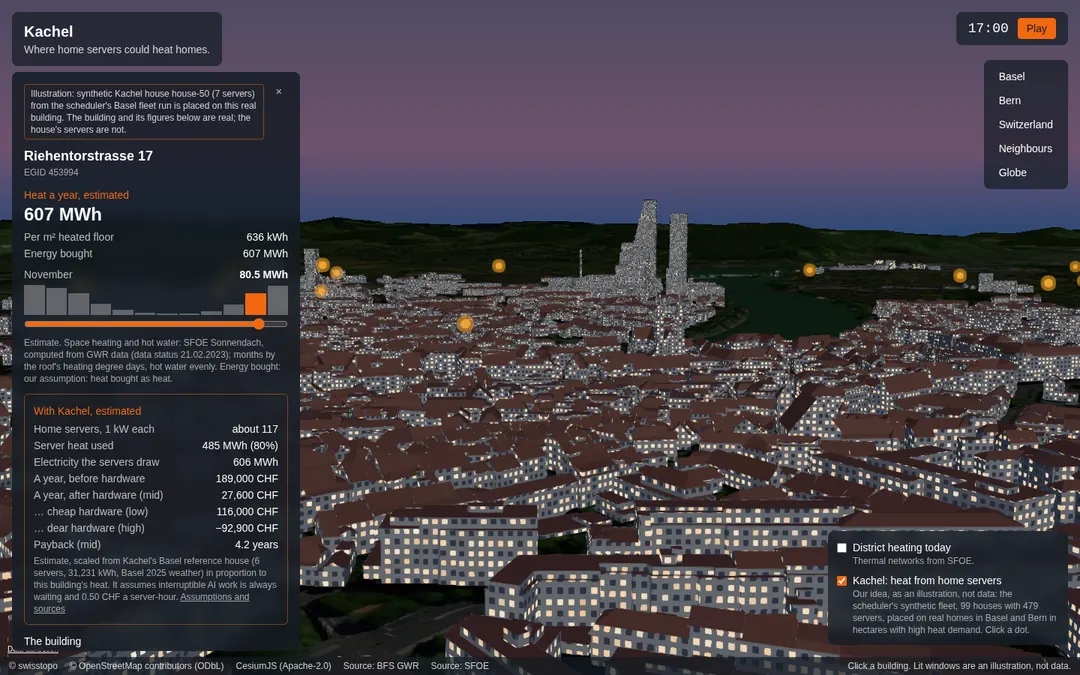
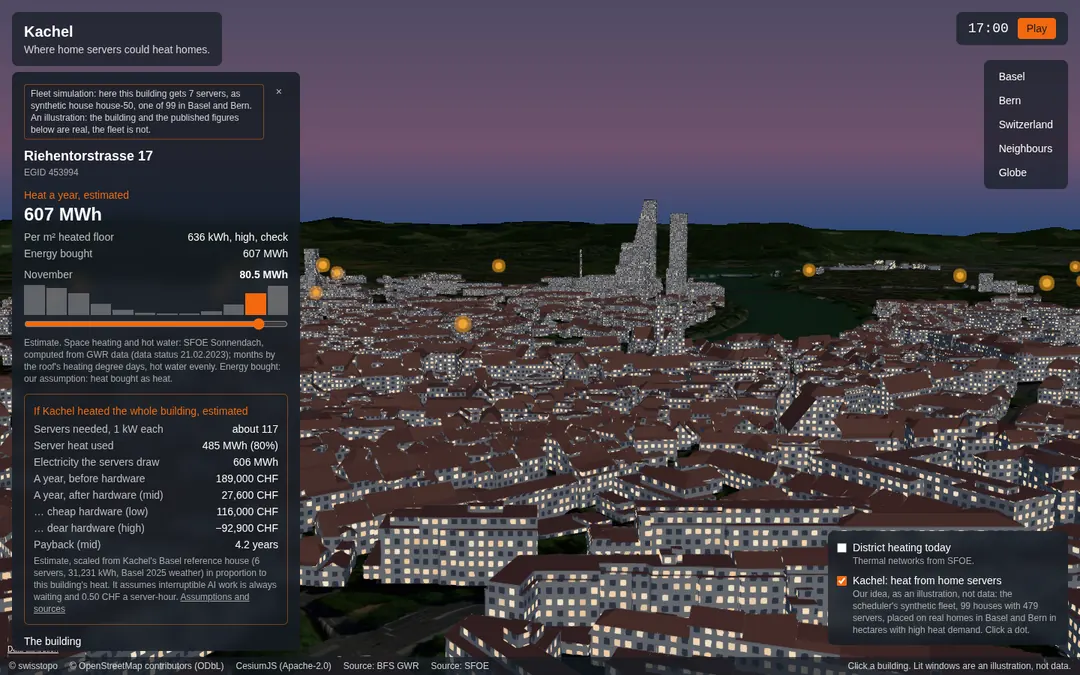
Tell the fleet's servers apart from the whole-building estimate

diff --git a/apps/map/src/building/BuildingCard.tsx b/apps/map/src/building/BuildingCard.tsx
@@ -1,11 +1,16 @@
 import { formatEnergy, heatEstimate } from "./estimate";
-import type { FleetHouse } from "../fleet/fleet";
+import { FLEET, type FleetHouse } from "../fleet/fleet";
 import type { BuildingFacts } from "./geoadmin";
 import { ASSUMPTIONS_URL, formatChf, kachelEstimate } from "./kachel";
 import { MonthSlider } from "./MonthSlider";
 import { describeSolar, SOLAR_RADIUS_M } from "./solar";
 
 const NETWORK_THRESHOLD_MWH = 700;
+/**
+ * Above this, heat per m² of heated floor is unusual even for an old, unrenovated building
+ * (our rule of thumb), so the card flags the SFOE estimate for a second look.
+ */
+export const HIGH_KWH_PER_M2 = 300;
 
 function Row({ label, value }: { label: string; value: string }) {
   return (
@@ -49,7 +54,7 @@ export function BuildingCard({
       </button>
       {fleet !== null && (
         <p className="mr-8 mb-2 rounded border border-heat/50 px-2 py-1 text-xs text-paper/80">
-          {`Illustration: synthetic Kachel house ${fleet.id} (${fleet.servers} servers) from the scheduler's ${fleet.city} fleet run is placed on this real building. The building and its figures below are real; the house's servers are not.`}
+          {`Fleet simulation: here this building gets ${fleet.servers} servers, as synthetic house ${fleet.id}, one of ${FLEET.length} in Basel and Bern. An illustration: the building and the published figures below are real, the fleet is not.`}
         </p>
       )}
       {facts === "loading" ? (
@@ -88,7 +93,11 @@ function Facts({ facts, month }: { facts: BuildingFacts; month: number }) {
             {estimate.perSquareMetre !== null && (
               <Row
                 label="Per m² heated floor"
-                value={`${Math.round(estimate.perSquareMetre)} kWh`}
+                value={
+                  estimate.perSquareMetre > HIGH_KWH_PER_M2
+                    ? `${Math.round(estimate.perSquareMetre)} kWh, high, check`
+                    : `${Math.round(estimate.perSquareMetre)} kWh`
+                }
               />
             )}
             <Row
@@ -180,12 +189,12 @@ function WithKachel({ heatKwh }: { heatKwh: number }) {
   const k = kachelEstimate(heatKwh);
   return (
     <section className="mt-3 rounded-md border border-heat/50 p-3">
-      <h3 className="font-medium text-heat">With Kachel, estimated</h3>
+      <h3 className="font-medium text-heat">If Kachel heated the whole building, estimated</h3>
       {k === null ? (
         <p>Too little heat for one 1 kW server.</p>
       ) : (
         <dl className="mt-1 space-y-0.5">
-          <Row label="Home servers, 1 kW each" value={`about ${k.servers}`} />
+          <Row label="Servers needed, 1 kW each" value={`about ${k.servers}`} />
           <Row
             label="Server heat used"
             value={`${formatEnergy(k.heatFromServersKwh)} (${Math.round(k.sharePct)}%)`}

diff --git a/apps/map/src/building/BuildingCard.test.tsx b/apps/map/src/building/BuildingCard.test.tsx
@@ -73,8 +73,22 @@ describe("building card", () => {
       hectareHeatMwh: 4562,
     };
     render(<BuildingCard facts={FACTS} month={10} fleet={house} onClose={() => undefined} />);
-    expect(screen.getByText(/synthetic Kachel house house-07 \(6 servers\)/)).toBeTruthy();
-    expect(screen.getByText(/the house's servers are not/)).toBeTruthy();
+    expect(
+      screen.getByText(/here this building gets 6 servers, as synthetic house house-07/),
+    ).toBeTruthy();
+    expect(screen.getByText(/the fleet is not/)).toBeTruthy();
+    // The whole-building estimate is named apart from the fleet's servers.
+    expect(screen.getByText("If Kachel heated the whole building, estimated")).toBeTruthy();
+  });
+
+  it("flags a heat figure that is high for any building", () => {
+    // 386,067 kWh over 668 m² is 578 kWh/m².
+    const facts = {
+      ...FACTS,
+      register: FACTS.register && { ...FACTS.register, heatedAreaM2: 668 },
+    };
+    render(<BuildingCard facts={facts} month={10} onClose={() => undefined} />);
+    expect(screen.getByText("578 kWh, high, check")).toBeTruthy();
   });
 
   it("says so when nothing is published", () => {

diff --git a/apps/map/README.md b/apps/map/README.md
@@ -28,7 +28,7 @@ placed on a real residential building in a hectare with high heat demand by
 `scripts/place-fleet.mjs` (EGID and position only, no addresses). The buildings are real; the
 houses and their servers are not, and the layer and card say so.
 
-<p align="center"><img src="../../docs/images/map-fleet.webp" width="720" alt="Basel at dusk with the synthetic Kachel fleet as amber dots on real homes; a card for one of them says it is a synthetic house with 7 servers placed on a real building"></p>
+<p align="center"><img src="../../docs/images/map-fleet.webp" width="720" alt="Basel at dusk with the synthetic Kachel fleet as amber dots on real homes; a card for one of them says that in the fleet simulation the building gets 7 servers, apart from the estimate for heating the whole building"></p>
 
 <p align="center"><img src="../../docs/images/map-networks.webp" width="720" alt="Basel at dusk with SFOE's district heating networks as red points and Kachel's home servers as amber dots; the card for Wärmeverbund Theodor shows IWB as operator, groundwater heat pumps and gas, 1.38 MW and 2.4 GWh a year"></p>
 
